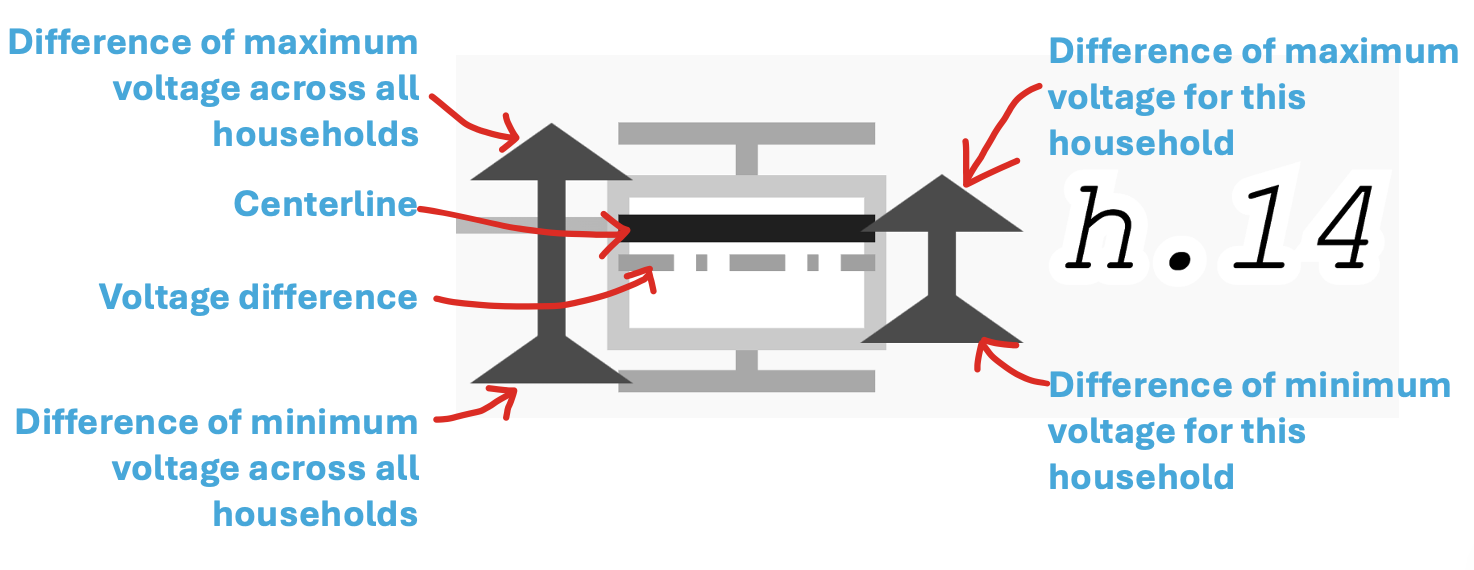
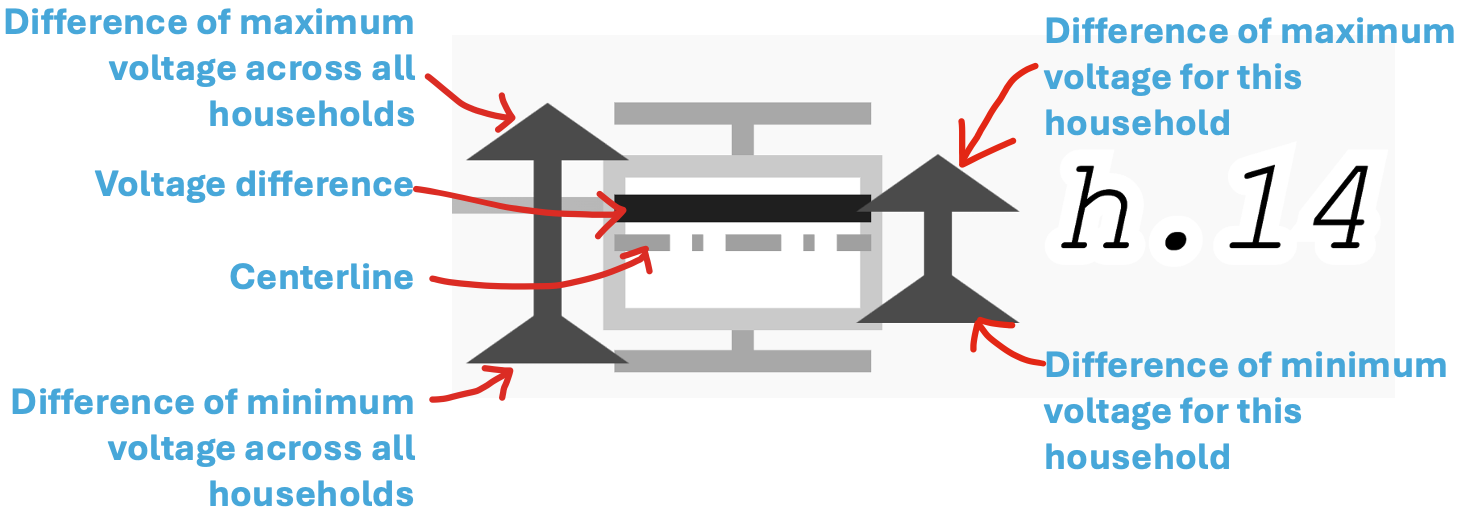
Minor updates

diff --git a/public/comparison-method/assets/tutorial3.md b/public/comparison-method/assets/tutorial3.md
@@ -1,6 +1,6 @@
 # Explicit encoding
 
-In this part, you will compare two datasets and answer a series of questions about the differences between them. In this design, the difference between the two datasets is **drawn directly in the figure**.
+In this part, you will compare two datasets and answer a series of questions about the differences between them. In this design, the **difference** between the two datasets is **drawn directly in the figure**.
 
 ![Example of the explicit encoding visualization](comparison-method/assets/exp/test.png)
 
@@ -12,11 +12,14 @@ In this part, you will compare two datasets and answer a series of questions abo
 ## How to read symbol
 **B − A** difference is shown through three separate encodings on top of that fixed symbol:
 * **Line in the box** represents voltage value difference between dataset B and A, or voltage variation over time between dataset B and A. 
-* **Dashed in the box** represents the centerline of the symbol. It is fixed in the symbol and provide reference of the line position.
-* **Vertical position** for the line in the box, vertical position represents the voltage value: a higher position indicates a higher voltage value, while a lower position indicates a lower voltage value.
-* **Left arrow** the direction of the upper end represents the difference between B and A in maximum voltage value across all households; the direction of the bottom end represents the difference between B and A in minimum voltage value across all households.
-* **Right arrow** the direction of the upper end represents the difference between B and A in maximum voltage value for that household; the direction of the bottom end represents the difference between B and A in minimum voltage value for that household.
-* **Arrow direction** indicates the the difference of B − A. Movement away from the centerline represents a positive difference \( B - A > 0\), whereas movement toward the centerline represents a negative difference \(B - A < 0\). 
+* **Dashed line in the box** represents the centerline of the symbol. It is fixed in the symbol and provide reference of the line position.
+* **Vertical position** for the line in the box, vertical position represents the voltage difference B − A: 
+  * A line above the centerline indicates B − A > 0, meaning Dataset B has a higher voltage value than Dataset A.
+  * A line below the centerline indicates B − A < 0, meaning Dataset B has a lower voltage value than Dataset A.
+  * The farther from the center line, the larger the absolute difference between the two datasets.
+* **Left arrow:** the direction of the upper end represents the difference between B and A in maximum voltage value across all households; the direction of the bottom end represents the difference between B and A in minimum voltage value across all households.
+* **Right arrow:** the direction of the upper end represents the difference between B and A in maximum voltage value for that household; the direction of the bottom end represents the difference between B and A in minimum voltage value for that household.
+* **Arrow direction** indicates the the difference of B − A. Movement away from the centerline represents a positive difference \(B - A > 0\), whereas movement toward the centerline represents a negative difference \(B - A < 0\). 
   * For the upper ends of the arrows: arrow uses ▲ if B > A, ▼ if B < A, or ● if B = A.
   * For the bottom ends of the arrows: arrow uses ▼ if B > A, ▲ if B < A, or ● if B = A.
   
@@ -29,9 +32,9 @@ Each question names a node, for example **h.23**. There are three types of quest
 Ask which dataset has the *higher* value of one of these:
 ![Example of the explicit encoding visualization](comparison-method/assets/exp/node.png)
 
-* **Maximum / minimum voltage value across all households:** check the upper / bottom end of left arrow. Movement away from the centerline represents a positive difference \( B - A > 0\), whereas movement toward the centerline represents a negative difference ((B - A < 0\). 
-* **Maximum / minimum voltage value for that household:** check the upper / bottom end of right arrow. Movement away from the centerline represents a positive difference \( B - A > 0\), whereas movement toward the centerline represents a negative difference \(B - A < 0\). 
-* **Voltage value:** check the voltage line in the box, the line above the dashed line indicates B - A > 0, while line below the dashed line indicates B - A < 0.
+* **Maximum / minimum voltage value across all households:** check the upper / bottom end of left arrow. Movement away from the centerline represents a positive difference \(B - A > 0\), whereas movement toward the centerline represents a negative difference \(B - A < 0\). 
+* **Maximum / minimum voltage value for that household:** check the upper / bottom end of right arrow. Movement away from the centerline represents a positive difference \(B - A > 0\), whereas movement toward the centerline represents a negative difference \(B - A < 0\). 
+* **Voltage value:** check the voltage line in the box, a higher position of the line indicates a larger value of B − A, while a lower position indicates a smaller value of B − A.
 
 *Answers: Dataset A, Dataset B, or Same.*
 
@@ -39,7 +42,7 @@ Ask which dataset has the *higher* value of one of these:
 Ask which dataset shows greater variation over time: 
 <img src="comparison-method/assets/exp/variation.png" alt="drawing" style="width:500px;"/>
 
-* **Variation line:** check the line in the box, the line above the dashed line indicates B - A > 0, while line below the dashed line indicates B - A < 0.
+* **Variation line:** check the line in the box, the line above the dashed line indicates the variation of B - A > 0, while line below the dashed line indicates the variation of B - A < 0.
 
 *Answers: Dataset A, Dataset B, or Same.*
 

diff --git a/public/comparison-method/assets/tutorial2.md b/public/comparison-method/assets/tutorial2.md
@@ -5,8 +5,8 @@ In this part, you will compare two datasets and answer a series of questions abo
 ![Example of the superposition visualization](comparison-method/assets/sup/test.png)
 
 ## How to read the figure
-* **Dataset A** is shown in the left grid.
-* **Dataset B** is shown in the right grid.
+* **Dataset A** is shown as the left symbol.
+* **Dataset B** is shown as the right symbol.
 * The node symbol is a box-and-whisker, and it represents the household in the grid. 
 
 ## How to read symbol
@@ -24,7 +24,7 @@ Each question names a node, for example **h.23**. There are three types of quest
 
 #### **Value questions** 
 Ask which dataset has the *higher* value of one of these:
-![Example of the superposition visualization](comparison-method/assets/sup/node.png)
+<img src="comparison-method/assets/sup/node.png" alt="drawing" style="width:800px;"/>
 
 * **Maximum / minimum voltage value across all households:** check the upper / bottom whisker, a higher position indicates a higher value, while a lower position indicates a lower value.
 * **Maximum / minimum voltage value for that household:** check the upper / bottom box border, a higher position indicates a higher value, while a lower position indicates a lower value.

diff --git a/public/comparison-method/assets/consent.md b/public/comparison-method/assets/consent.md
@@ -20,7 +20,7 @@ how different visualization strategies support the comparison
 of time-varying data in hierarchical network structures.
 
 ## Tasks
-The test contains 54 questions about our tool. 
+The test contains 54 tasks about comparison strategies. 
 It will take approximately 30 minutes to finish this
 test. 
 <!-- For each question, you will be given an interactive data
@@ -33,7 +33,7 @@ Your participation will remain anonymous, and the study does not ask you to prov
 
 We will not make audio, video, or screen recordings during the study. Only your responses to the study tasks and data related to your interaction with the visualizations will be collected for research analysis.
 
-## Benefits to research participants and others:
+## Benefits to research participants and others
 The possible benefits include exposure to interesting data
 visualization, along with helping inform the
 development of future experiment reporting techniques.
